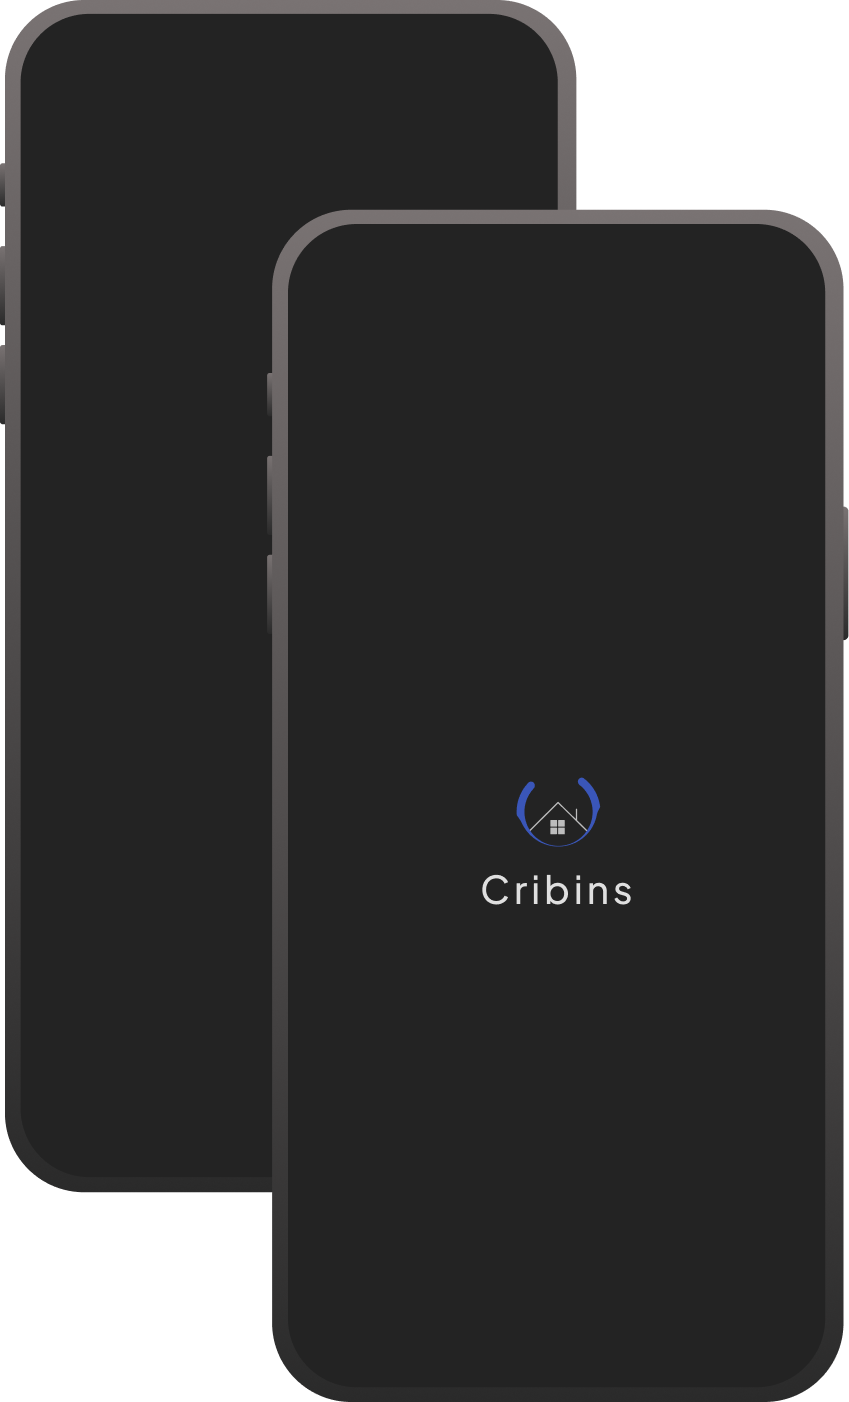
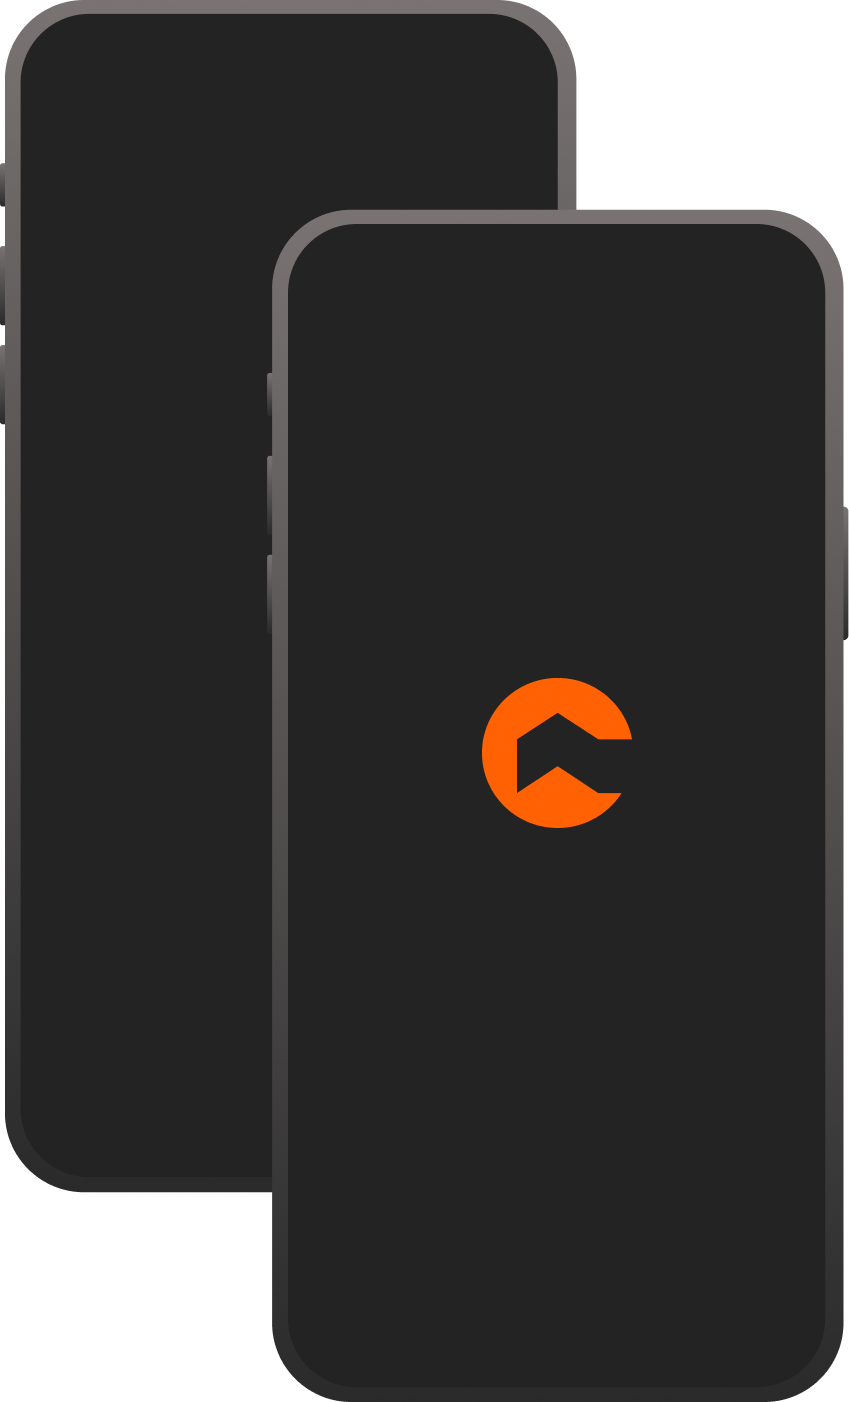
update ui and assets

Changed region(s): [[0.5512, 0.4601, 0.735, 0.6441]]

diff --git a/components/t-l-section.tsx b/components/t-l-section.tsx
@@ -1,6 +1,11 @@
 'use client';
 
-import { AppStoreIcon, LogoDark, LogoLight, PlayStoreIcon } from '@/assets/icons';
+import {
+  AppStoreIcon,
+  LogoDark,
+  LogoLight,
+  PlayStoreIcon
+} from '@/assets/icons';
 import { HomeAd } from '@/assets/images';
 import { useTheme } from 'next-themes';
 import Image from 'next/image';
@@ -11,30 +16,45 @@ const TLSection = () => {
   const { theme } = useTheme();
 
   return (
-    <Card className="flex flex-col-reverse items-center justify-center gap-2 bg-black/5 rounded-none p-4  border-none mb-20 dark:bg-zinc-900 lg:flex-row lg:gap-10 lg:p-10">
-      <div className='w-full'>
-
-      <Image
-        alt="app"
-        src={HomeAd}
-        // className="w-50 h-50"
-        width={800}
-        height={800}
+    <Card className="mb-20 flex flex-col-reverse items-center justify-center gap-2 rounded-none border-none  bg-black/5 p-4 lg:flex-row lg:gap-10 lg:p-10 dark:bg-zinc-900">
+      <div className="w-full">
+        <Image
+          alt="app"
+          src={HomeAd}
+          // className="w-50 h-50"
+          width={800}
+          height={800}
         />
-        </div>
-      <div className='w-full'>
-        <h1 className="text-2xl font-black lg:text-4xl">
-          We make it easy for <br /> tenants and landlords.
+      </div>
+      <div className="w-full">
+        <h1 className="text-2xl font-black text-primary lg:text-4xl">
+          Cribins makes it easy for tenants, property owners, and real estate
+          professionals.
         </h1>
 
-        <p className="pt-4 text-sm text-wrap">
-          Whether it’s selling your current home, getting financing, or
-          buying a new home, we make it easy and efficient. The best
-          part? you’ll save a bunch of moneyand time with our services.
+        <p className="text-wrap pt-4 text-sm">
+          Whether you’re selling your current home, buying or renting a new one,
+          Cribins makes it easy and efficient. The best part? You'll save time
+          and money with our seamless platform and innovative virtual property
+          inspections.
         </p>
-        <div className='flex items-center flex-col gap-3 pt-6 lg:flex-row'>
-          <Button size={`lg`} variant={`secondary`} className='flex w-full items-center lg:w-auto'><PlayStoreIcon className="scale-50" />Play store</Button>
-          <Button size={`lg`} variant={`secondary`} className='flex w-full items-center lg:w-auto'><AppStoreIcon className="scale-50 fill-black dark:fill-white" />App store</Button>
+        <div className="flex flex-col items-center gap-3 pt-6 lg:flex-row">
+          <Button
+            size={`lg`}
+            variant={`secondary`}
+            className="flex w-full items-center lg:w-auto"
+          >
+            <PlayStoreIcon className="scale-50" />
+            Play store
+          </Button>
+          <Button
+            size={`lg`}
+            variant={`secondary`}
+            className="flex w-full items-center lg:w-auto"
+          >
+            <AppStoreIcon className="scale-50 fill-black dark:fill-white" />
+            App store
+          </Button>
         </div>
       </div>
     </Card>

diff --git a/components/hero.tsx b/components/hero.tsx
@@ -1,6 +1,11 @@
 'use client';
 
-import { AppStoreIcon, LogoDark, LogoLight, PlayStoreIcon } from '@/assets/icons';
+import {
+  AppStoreIcon,
+  LogoDark,
+  LogoLight,
+  PlayStoreIcon
+} from '@/assets/icons';
 import { AppIcon, AppIcon_dark, AppIcon_white, HomeAd } from '@/assets/images';
 import { useTheme } from 'next-themes';
 import Image from 'next/image';
@@ -12,12 +17,12 @@ const Hero = () => {
   const { theme } = useTheme();
 
   return (
-    <Card className="flex flex-col-reverse items-center justify-center gap-2 border-none mb-60 mt-20 lg:flex-row lg:gap-10">
+    <Card className="mb-60 mt-20 flex flex-col-reverse items-center justify-center gap-2 border-none lg:flex-row lg:gap-10">
       <div className="flex w-full items-center justify-center lg:justify-end">
         <Image
           alt="app"
-          src={theme === "light" ? AppIcon_white : AppIcon_dark}
-          className="w-30 pt-10 lg:p-0 lg:w-50"
+          src={theme === 'light' ? AppIcon_white : AppIcon_dark}
+          className="w-30 lg:w-50 pt-10 lg:p-0"
           width={400}
           height={400}
         />
@@ -38,17 +43,31 @@ const Hero = () => {
           )} */}
           {/* <span className="font-bold text-4xl">Cribins</span> */}
         </div>
-        <h1 className="text-wrap text-2xl font-black lg:text-4xl">
-          Buy, rent, or sell your <br /> property easily.
+        <h1 className="text-wrap  text-2xl font-black text-primary lg:text-4xl">
+          Seamlessly Connecting <br /> You to Your Next Home.
         </h1>
 
-        <p className="text-wrap pt-6 text-sm">
-          A great platform to buy, sell, or even rent  your <br />properties without
-          any commisions.
+        <p className="text-md text-wrap pt-4">
+          Discover Your Perfect Home Without the Hassle <br />
+          Explore, Compare, and Connect with Ease.
         </p>
-        <div className='flex items-center flex-col gap-3 pt-6 lg:flex-row'>
-          <Button size={`lg`} variant={`secondary`} className='flex w-full items-center lg:w-auto'><PlayStoreIcon className="scale-50" />Play store</Button>
-          <Button size={`lg`} variant={`secondary`} className='flex w-full items-center lg:w-auto'><AppStoreIcon className="scale-50 fill-black dark:fill-white" />App store</Button>
+        <div className="flex flex-col items-center gap-3 pt-6 lg:flex-row">
+          <Button
+            size={`lg`}
+            variant={`secondary`}
+            className="flex w-full items-center lg:w-auto"
+          >
+            <PlayStoreIcon className="scale-50" />
+            Play store
+          </Button>
+          <Button
+            size={`lg`}
+            variant={`secondary`}
+            className="flex w-full items-center lg:w-auto"
+          >
+            <AppStoreIcon className="scale-50 fill-black dark:fill-white" />
+            App store
+          </Button>
         </div>
       </div>
     </Card>

diff --git a/app/globals.css b/app/globals.css
@@ -19,8 +19,8 @@
     --popover: 0 0% 100%;
     --popover-foreground: 240 10% 3.9%;
 
-    --primary: 240 5.9% 10%;
-    --primary-foreground: 0 0% 98%;
+    --primary: 18.68, 100%, 51%;
+    --primary-foreground: #c7845d;
 
     --secondary: 240 4.8% 95.9%;
     --secondary-foreground: 240 5.9% 10%;
@@ -57,7 +57,7 @@
     --popover: 240 10% 3.9%;
     --popover-foreground: 0 0% 98%;
 
-    --primary: 0 0% 98%;
+    --primary: 18.68, 100%, 51%;
     --primary-foreground: 240 5.9% 10%;
 
     --secondary: 240 3.7% 15.9%;

diff --git a/components/layout/header.tsx b/components/layout/header.tsx
@@ -1,4 +1,4 @@
-'use client'; 
+'use client';
 
 import { LogoDark, LogoLight } from '@/assets/icons';
 import ThemeToggle from '@/components/layout/ThemeToggle/theme-toggle';
@@ -19,7 +19,7 @@ export default function Header() {
             ) : (
               <Image src={LogoLight} alt="logo_white" />
             )} */}
-            Cribins
+            {/* Cribins */}
           </Link>
         </div>
         <div className="flex items-center gap-2">
